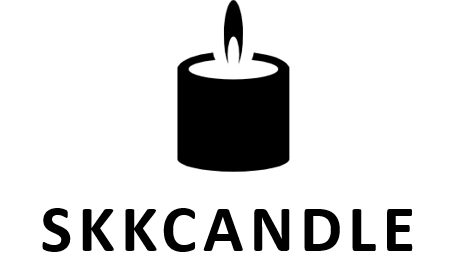
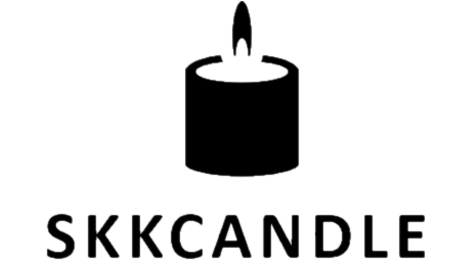
23.08.20 boardList 수정 중, navHeader 메인로고 변경

Changed region(s): [[0.0909, 0.7969, 0.9394, 1.0], [0.3636, 0.0, 0.6667, 0.705]]

diff --git a/src/main/webapp/resources/css/qna/boardList.css b/src/main/webapp/resources/css/qna/boardList.css
@@ -55,3 +55,10 @@ tbody a:hover {
 tfoot .btn:hover {
 	color: white;
 }
+
+.qna_info {
+	display: flex;
+	flex-direction: row;
+	
+}
+

diff --git a/src/main/java/com/skkcandle/controller/QnaController.java b/src/main/java/com/skkcandle/controller/QnaController.java
@@ -81,15 +81,15 @@ public class QnaController {
 		
 		for (Qna product : list) {
             byte[] imageBytes = product.getQnaImage();
-            String base64Image = Base64.getEncoder().encodeToString(imageBytes);
-            product.setBase64Image(base64Image);
-            System.out.println("이미지 세팅 완료");
+            if(imageBytes != null) {
+            	String base64Image = Base64.getEncoder().encodeToString(imageBytes);
+            	product.setBase64Image(base64Image);
+            }
         }
-		System.out.println("이미지 세팅 탈출");
+
 		model.addAttribute("pager", pager);
-		System.out.println("pager완료");
 		model.addAttribute("boards", list);
-		System.out.println("adda 완료");
+		
 		return "qna/boardList";
 	}
 	
